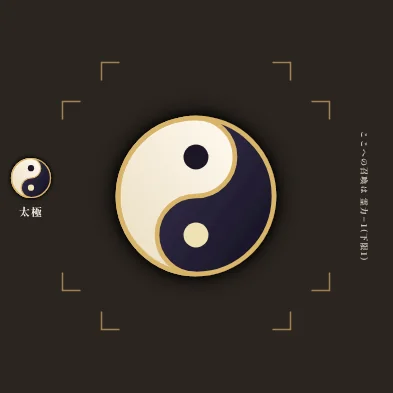
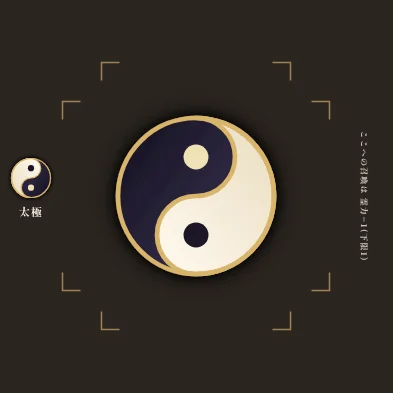
fix: 公開版の画面を点検して読みにくい所を直した
- 盤の札の攻撃範囲を大きく描き、スマホでは手札の札も同じにした
- 太極の絵の向きを、画面の陰陽マスの並びにそろえた
- 使っていない「旧・隙」を凡例から外した
- 部屋を作った後のボタンの文がスマホで切れていたのを直した
- 観戦を外した切り替えを2つ割りにした
- トップの盤の絵を目盛りなしにした

Claude-Session: https://claude.ai/code/session_01EFKKipHgPRZcCDHPPHufEG

Changed region(s): [[0.3053, 0.3053, 0.7023, 0.7023]]

diff --git a/sim2/play/prompt-view.ts b/sim2/play/prompt-view.ts
@@ -171,15 +171,17 @@ const bar = (kind: string, hint: string, lines: string[], buttons: string[], fla
 const kbd = (text: string): string => `<span class="kbd-hint">${text}</span>`;
 
 /** The board's range colours, the same as the card diagram (旧・隙 = the provisional amber ring). */
-const LEGEND =
-  '<span class="legend"><i class="lg lg-attack"></i>間合 <i class="lg lg-counter"></i>反撃間合 <i class="lg lg-blind"></i>隙 <i class="lg lg-gap"></i>旧・隙</span>';
+const legend = (vm: PromptVM): string =>
+  `<span class="legend"><i class="lg lg-attack"></i>間合 <i class="lg lg-counter"></i>反撃間合 <i class="lg lg-blind"></i>隙${
+    vm.ctx.cfg.counterMode === "gap" ? ' <i class="lg lg-gap"></i>旧・隙' : ""
+  }</span>`;
 
 const unitHint = (vm: PromptVM, uid: number, own: boolean): string => {
   const u = unitById(vm.board, uid);
   if (u === undefined) return "";
   // The gap explanation lives in the detail panel; repeating it here wraps the bar over the board.
   const who = own ? "" : `${esc(vm.names[u.owner])}の`;
-  return `${who}<b>${esc(cardName(vm.ctx, u.cardId))}</b>${own ? ": 丸いメニューから命令を選ぶ" : ""} ${LEGEND}`;
+  return `${who}<b>${esc(cardName(vm.ctx, u.cardId))}</b>${own ? ": 丸いメニューから命令を選ぶ" : ""} ${legend(vm)}`;
 };
 
 /** Confirm lines for a targeted reigu (HTML). */
@@ -332,7 +334,7 @@ const mainBar = (vm: PromptVM, legal: LegalEntry[]): string => {
       const verb = s.mode === "heal" ? "回復" : s.mode === "konshin" ? "渾身攻撃" : s.mode === "regen" ? "再生攻撃" : s.mode === "drink" ? "飲酒攻撃" : "攻撃";
       const e = aimedEntry(legal, s);
       if (e === undefined) {
-        return bar("pick", `${verb}する${s.mode === "heal" ? "味方" : "相手"}を盤上で選ぶ ${LEGEND}`, [], [cancel], f);
+        return bar("pick", `${verb}する${s.mode === "heal" ? "味方" : "相手"}を盤上で選ぶ ${legend(vm)}`, [], [cancel], f);
       }
       const lines = e.preview?.kind === "attack" ? attackSummaryLines(vm.ctx, vm.board, vm.names, s.uid, e.preview) : [];
       const who = unitById(vm.board, s.uid);

diff --git a/sim2/play/site-public.css b/sim2/play/site-public.css
@@ -41,3 +41,21 @@
 [data-site="public"] .cell.c-taiji { background: url("/play/art/board/taiji.webp") center / cover no-repeat; }
 /* the squares carry their own marks */
 [data-site="public"] .raden:not(.chip) { display: none; }
+
+/* ------------------------------------------------------------- range */
+/* the printed range diagram is a few px wide on a board piece (a phone read it like an eye chart):
+   the drawn one goes over it, big enough to read at a glance */
+[data-site="public"] .fu-sm.has-face .fu-rblock { z-index: 5; right: 3%; bottom: 3%; height: auto; width: 36%; }
+[data-site="public"] .fu-sm.has-face .fu-range,
+[data-site="public"] .fu-sm.has-face .fu-range.g5 { width: 100%; box-shadow: 0 0 0 0.06em var(--sym-ink), 0 0.15em 0.4em oklch(0% 0 0 / 0.55); }
+@media (max-width: 700px) {
+  [data-site="public"] .fu-sm.has-face .fu-rblock { width: 48%; }
+  /* the hand card's printed range, the same */
+  [data-site="public"] .fu-md.has-face .fu-rblock { z-index: 5; top: auto; right: 4%; bottom: 30%; width: 42%; }
+  [data-site="public"] .fu-md.has-face .fu-type { display: none; }
+  [data-site="public"] .fu-md.has-face .fu-range,
+  [data-site="public"] .fu-md.has-face .fu-range.g5 { width: 100%; box-shadow: 0 0 0 0.06em var(--sym-ink), 0 0.15em 0.4em oklch(0% 0 0 / 0.55); }
+}
+
+/* two ways to play (no 観戦): the switch splits in two, not three with an empty third */
+[data-site="public"] .mode-switch { grid-template-columns: repeat(2, minmax(0, 1fr)); }

diff --git a/sim2/play/panel.css b/sim2/play/panel.css
@@ -514,7 +514,7 @@ a.btn { text-decoration: none; }
 
 /* the foot: one gold button across the panel, quiet text buttons under it */
 .entry-panel .err { margin: 0; }
-.entry-primary { width: 100%; min-height: 50px; font-size: 16px; letter-spacing: 0.12em; }
+.entry-primary { width: 100%; min-height: 50px; font-size: 16px; letter-spacing: 0.12em; white-space: normal; text-wrap: balance; } /* a long label wrapped off both edges on a 390px phone */
 .entry-secondary { display: flex; flex-wrap: wrap; justify-content: center; gap: 4px 18px; margin-top: -6px; }
 .entry-secondary:empty { display: none; }
 .btn-text {

diff --git a/sim2/online/lobby.ts b/sim2/online/lobby.ts
@@ -138,7 +138,7 @@ const create = async (): Promise<void> => {
   $<HTMLAnchorElement>("enter").href = `/room/${json.code}`;
   $("created").hidden = false;
   // the room is made: another press would only make a second, empty one (they count against the per-address cap)
-  button.textContent = "部屋を作りました(下の「部屋に入る」へ)";
+  button.textContent = "部屋ができました ↓";
 };
 
 const init = async (): Promise<void> => {
